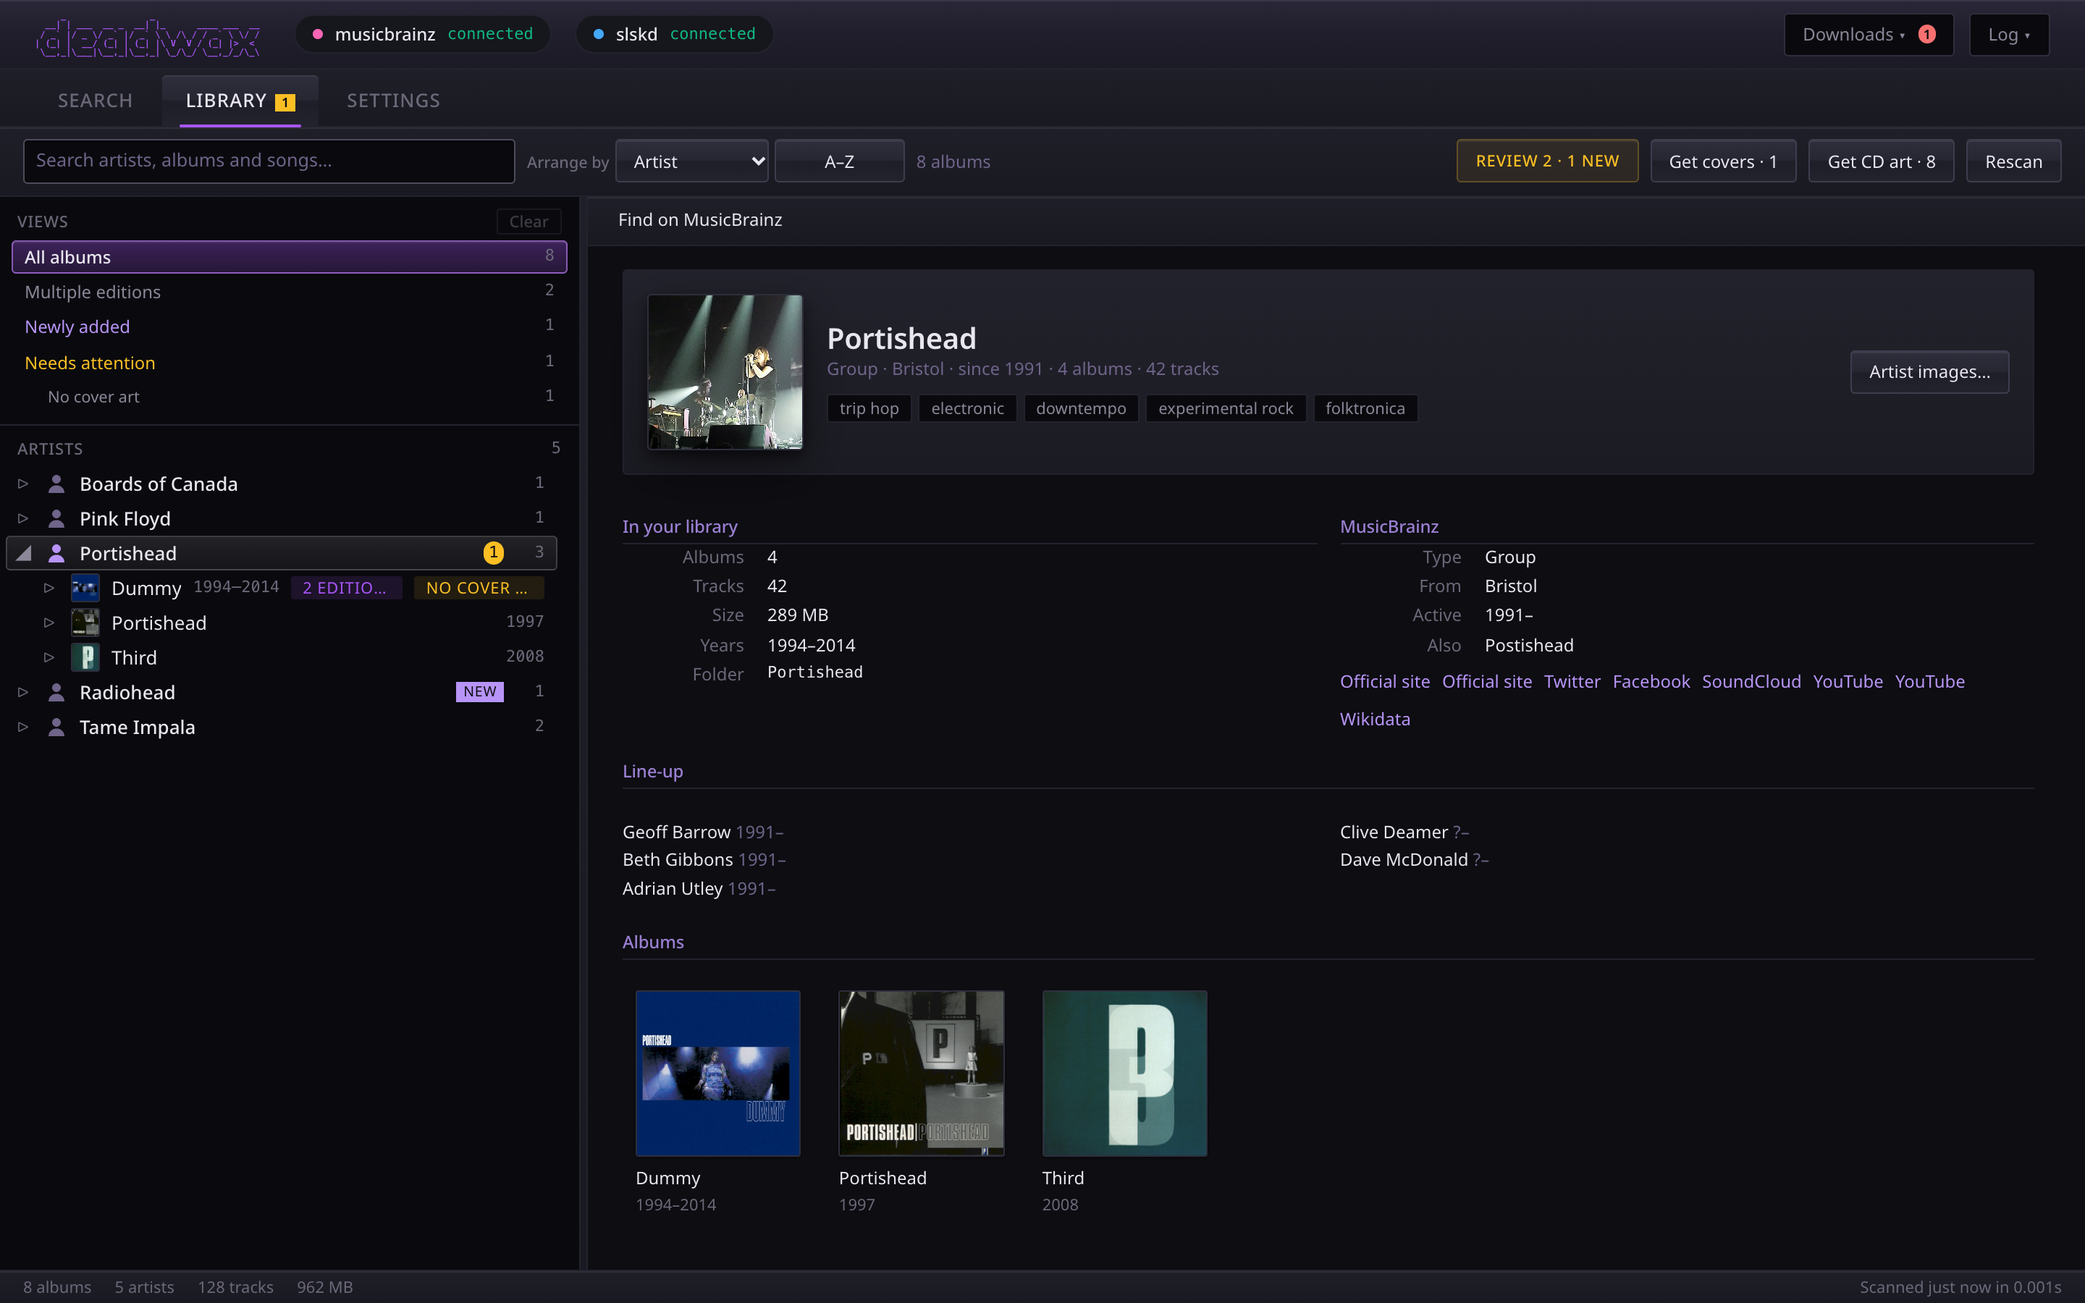
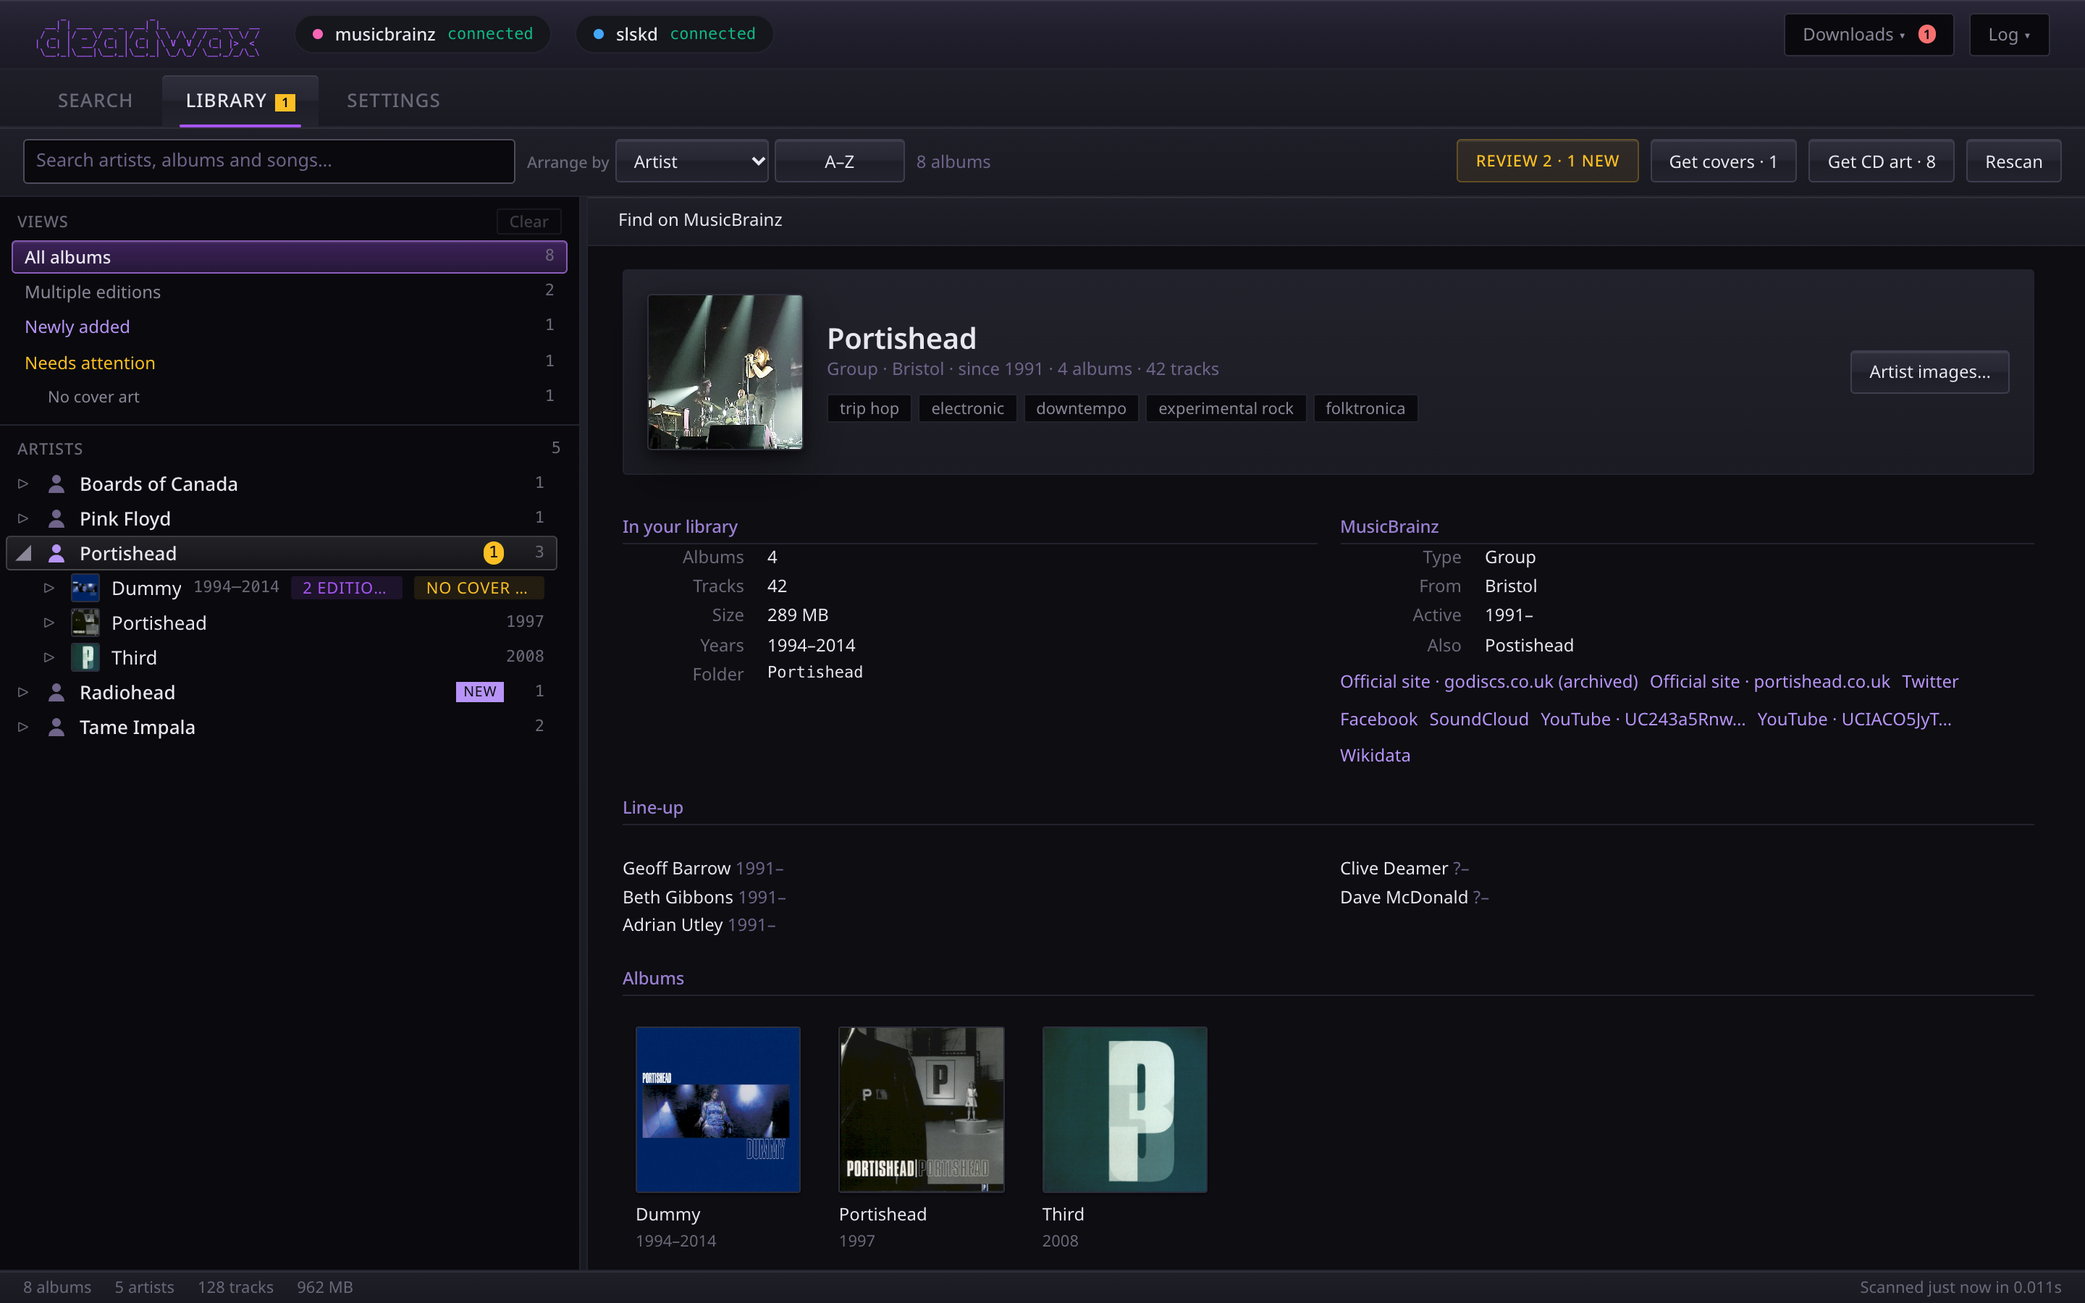
Tell apart artist links that share a label (0.9.34)
Portishead's artist page read "Official site  Official site  Twitter
Facebook  SoundCloud  YouTube  YouTube  Wikidata", with nothing to say
which was which (seen in the 0.9.33 screenshot).

artist_links() now gives links that would share a label something to tell
them apart (_tell_apart, pure, in artists.py):
- the host, where the hosts differ: "Lyrics · genius.com";
- where they share a host, the deepest path segment that differs, since
  YouTube's /channel/ is the same on both: "YouTube · UC243a5Rnw…" (ids
  cut to ten characters);
- a Wayback Machine address is read as the page it archived:
  "Official site · godiscs.co.uk (archived)" rather than web.archive.org;
- a host every link in the group shares is never added, and whatever
  still collides is numbered.
A link alone under its label is exactly as it was.

The dedupe now compares the place rather than the string, so the same page
as http and https, with and without www or a trailing slash, is one link;
nothing written beside a second copy could make it a different place. An
archived copy of a live site stays its own link. Every link's tooltip now
carries its full address.

Verified in the real page against live MusicBrainz on Portishead: both
official sites and both YouTube channels named, singles untouched, no
overflow at 1024px or 375px. The README's artist.png is recaptured to
match. Six new tests; 880 pass, pyflakes and tsc clean.

diff --git a/ui/src/components/ArtistDetails.tsx b/ui/src/components/ArtistDetails.tsx
@@ -220,7 +220,7 @@ export function ArtistDetails(
             {facts.links.length > 0 && (
               <div class="artist-links">
                 {facts.links.slice(0, 8).map((link) => (
-                  <a key={link.url} href={link.url} target="_blank" rel="noreferrer noopener">
+                  <a key={link.url} href={link.url} title={link.url} target="_blank" rel="noreferrer noopener">
                     {link.label}
                   </a>
                 ))}

diff --git a/src/artists.py b/src/artists.py
@@ -21,8 +21,9 @@ actually has the pieces an artist page is made of is the one that needs a key:
     everything here treats it as optional and the page still works without it.
 """
 
+import re
 import unicodedata
-from urllib.parse import quote, urlparse
+from urllib.parse import quote, unquote, urlparse
 
 #? The filename STEM each kind is written under. The square one is `artist`, and that is the
 #? whole reason this lands anywhere useful: **Navidrome reads it with no configuration at all**,
@@ -350,15 +351,94 @@ def _host_label(url: str) -> str:
     return SOCIAL_NAMES.get(host) or (host.split(".")[0].capitalize() if host else "Link")
 
 
+#? /web/<timestamp>/<the page it archived> - the timestamp can carry a suffix, like 2011id_
+WAYBACK_PATH = re.compile(r"^/web/[^/]+/(.+)$")
+
+#? a path segment longer than this is an id (a YouTube channel is 24 characters) and is cut short;
+#? the link's tooltip carries the whole address
+SEGMENT_CHARS = 16
+
+
+def _where(url: str) -> tuple[str, list[str], bool]:
+    """
+    Where a link goes: its host without "www.", its path's segments, and whether it's an archive.
+
+    A Wayback Machine address is read as the page it archived, since "web.archive.org" says only
+    that it's an archive, and MusicBrainz keeps a band's long-gone sites that way.
+    """
+    parsed = urlparse(url)
+    host = parsed.netloc.lower().removeprefix("www.")
+    archived = WAYBACK_PATH.match(parsed.path) if host == "web.archive.org" else None
+    if archived:
+        original = archived.group(1)
+        inner_host, segments, _ = _where(original if "://" in original else f"http://{original}")
+        return inner_host, segments, True
+    return host, [unquote(s) for s in parsed.path.split("/") if s], False
+
+
+def _telling_segment(mine: list[str], twins: list[list[str]]) -> str | None:
+    """The deepest segment of this path that its twins (same host, itself included) don't all share."""
+    for i in reversed(range(len(mine))):
+        if any(len(twin) <= i or twin[i] != mine[i] for twin in twins):
+            segment = mine[i]
+            return segment if len(segment) <= SEGMENT_CHARS else segment[:10] + "…"
+    return None
+
+
+def _tell_apart(links: list[dict]) -> None:
+    """
+    Give links that share a label something to tell them apart, in place.
+
+    Portishead has two official sites and two YouTube channels, and read "Official site Official
+    site ... YouTube YouTube". Each gets its host, or where the hosts match, the part of the path
+    that differs: "Official site · portishead.co.uk", "YouTube · UC243a5Rnw…". A link alone under
+    its label is left exactly as it was.
+    """
+    groups: dict[str, list[dict]] = {}
+    for link in links:
+        groups.setdefault(link["label"], []).append(link)
+
+    for label, group in groups.items():
+        if len(group) < 2:
+            continue
+        places = [_where(link["url"]) for link in group]
+        one_host = len({host for host, _, _ in places}) == 1
+
+        for link, (host, segments, archived) in zip(group, places):
+            twins = [other for other_host, other, _ in places if other_host == host]
+            segment = _telling_segment(segments, twins) if len(twins) > 1 else None
+            if segment is not None:
+                where = segment if one_host else f"{host}/{segment}"
+            else:
+                #? the host tells nothing when every link here has it ("YouTube · youtube.com")
+                where = None if one_host else host
+            link["label"] = label + (f" · {where}" if where else "") + (" (archived)" if archived else "")
+
+        #? addresses differing only in their query string still collide, so number what's left
+        counts: dict[str, int] = {}
+        for link in group:
+            counts[link["label"]] = counts.get(link["label"], 0) + 1
+        if any(count > 1 for count in counts.values()):
+            numbered: dict[str, int] = {}
+            for link in group:
+                if counts[link["label"]] > 1:
+                    numbered[link["label"]] = numbered.get(link["label"], 0) + 1
+                    link["label"] += f" {numbered[link['label']]}"
+
+
 def artist_links(relations: list[dict] | None) -> list[dict]:
     """
     The artist's links, grouped and de-duplicated, in LINK_GROUPS order.
 
     "Social network" covers every one of them in MusicBrainz's vocabulary, so a band with a
     Twitter, a Facebook and an Instagram got three links all labelled "Social" and no way to
-    tell which was which. Those are named after where they actually go.
+    tell which was which. Those are named after where they actually go, and links that would
+    still share a label are told apart by `_tell_apart`.
+
+    The same page reached as http and https, or with and without "www." or a trailing slash, is
+    one link: nothing written beside the second could make it a different place.
     """
-    seen: set[str] = set()
+    seen: set[tuple] = set()
     links = []
 
     for wanted, label in LINK_GROUPS.items():
@@ -366,11 +446,16 @@ def artist_links(relations: list[dict] | None) -> list[dict]:
             if relation.get("type") != wanted:
                 continue
             url = (relation.get("url") or {}).get("resource", "")
-            if url and url not in seen:
-                seen.add(url)
+            if not url:
+                continue
+            host, segments, archived = _where(url)
+            place = (host, tuple(segments), urlparse(url).query, archived)
+            if place not in seen:
+                seen.add(place)
                 links.append({"label": _host_label(url) if wanted == "social network" else label,
                               "url": url})
 
+    _tell_apart(links)
     return links
 
 

diff --git a/tests/test_artists.py b/tests/test_artists.py
@@ -307,6 +307,86 @@ def test_social_links_are_named_after_where_they_go():
     assert [l["label"] for l in facts["links"]] == ["Twitter", "Facebook", "Instagram"]
 
 
+#? Portishead's own links, as the live API gave them - the ones that read "Official site Official
+#? site ... YouTube YouTube" on the page.
+PORTISHEAD_LINKS = [
+    {"type": "official homepage",
+     "url": {"resource": "https://web.archive.org/web/19961105112827/http://www.godiscs.co.uk/porthead.html"}},
+    {"type": "official homepage", "url": {"resource": "http://www.portishead.co.uk/"}},
+    {"type": "social network", "url": {"resource": "https://twitter.com/Portisheadinfo"}},
+    {"type": "youtube", "url": {"resource": "https://www.youtube.com/channel/UC243a5RnwmItLvwhl0YOxbg"}},
+    {"type": "youtube", "url": {"resource": "https://www.youtube.com/channel/UCIACO5JyTM0l1HNykt91E6g"}},
+    {"type": "lyrics", "url": {"resource": "https://genius.com/artists/Portishead"}},
+    {"type": "lyrics", "url": {"resource": "https://muzikum.eu/en/122-6105/portishead/lyrics.html"}},
+]
+
+
+def test_links_that_share_a_label_are_told_apart():
+    """By host where the hosts differ, and by the part of the path that differs where they don't."""
+    labels = [l["label"] for l in artist_facts({"name": "Portishead", "relations": PORTISHEAD_LINKS})["links"]]
+    assert labels == [
+        #? an archived page is named after the site it archived - "web.archive.org" says nothing
+        "Official site · godiscs.co.uk (archived)",
+        "Official site · portishead.co.uk",
+        "Twitter",
+        #? /channel/ is the same on both, so it's the ids that differ, cut short
+        "YouTube · UC243a5Rnw…",
+        "YouTube · UCIACO5JyT…",
+        "Lyrics · genius.com",
+        "Lyrics · muzikum.eu",
+    ]
+
+
+def test_a_link_alone_under_its_label_is_left_as_it_was():
+    facts = artist_facts({"name": "A band", "relations": [
+        {"type": "official homepage", "url": {"resource": "https://band.com/"}},
+        {"type": "youtube", "url": {"resource": "https://www.youtube.com/@band"}},
+        {"type": "social network", "url": {"resource": "https://x.com/band"}},
+        {"type": "social network", "url": {"resource": "https://twitter.com/band"}},
+    ]})
+    #? X and Twitter are two labels already, so neither needs telling apart
+    assert [l["label"] for l in facts["links"]] == ["Official site", "X", "Twitter", "YouTube"]
+
+
+def test_two_accounts_on_one_site_are_named_by_account():
+    facts = artist_facts({"name": "A band", "relations": [
+        {"type": "social network", "url": {"resource": "https://twitter.com/band"}},
+        {"type": "social network", "url": {"resource": "https://twitter.com/band_archive"}},
+        {"type": "bandcamp", "url": {"resource": "https://band.bandcamp.com/"}},
+        {"type": "bandcamp", "url": {"resource": "https://sideproject.bandcamp.com/"}},
+    ]})
+    assert [l["label"] for l in facts["links"]] == [
+        "Twitter · band", "Twitter · band_archive",
+        "Bandcamp · band.bandcamp.com", "Bandcamp · sideproject.bandcamp.com",
+    ]
+
+
+def test_the_same_page_written_two_ways_is_one_link():
+    """Nothing written beside a second copy could make it a different place, so it isn't shown."""
+    facts = artist_facts({"name": "A band", "relations": [
+        {"type": "official homepage", "url": {"resource": "http://www.band.com/"}},
+        {"type": "official homepage", "url": {"resource": "https://band.com"}},
+    ]})
+    assert facts["links"] == [{"label": "Official site", "url": "http://www.band.com/"}]
+
+
+def test_an_archived_copy_of_a_live_site_is_still_its_own_link():
+    facts = artist_facts({"name": "A band", "relations": [
+        {"type": "official homepage", "url": {"resource": "https://band.com/"}},
+        {"type": "official homepage", "url": {"resource": "https://web.archive.org/web/2001id_/http://band.com/"}},
+    ]})
+    #? one site, so naming it would say nothing - "(archived)" is the whole difference
+    assert [l["label"] for l in facts["links"]] == ["Official site", "Official site (archived)"]
+
+
+def test_links_nothing_else_tells_apart_are_numbered():
+    facts = artist_facts({"name": "A band", "relations": [
+        {"type": "youtube", "url": {"resource": "https://www.youtube.com/watch?v=one"}},
+        {"type": "youtube", "url": {"resource": "https://www.youtube.com/watch?v=two"}},
+    ]})
+    assert [l["label"] for l in facts["links"]] == ["YouTube 1", "YouTube 2"]
+
+
 
 # ------------------------------------------------------- finding an artist who has been renamed
 #

diff --git a/src/__init__.py b/src/__init__.py
@@ -14,4 +14,4 @@ value here is a wrong answer to "what version are you running", which is the fir
 asked about any bug report.
 """
 
-__version__ = "0.9.33"
+__version__ = "0.9.34"

diff --git a/CLAUDE.md b/CLAUDE.md
@@ -130,7 +130,7 @@ interface/         vanilla JS/CSS. Still the served page; main.js is shrinking a
                    separately - hard-refresh when verifying a palette change.
   dist/            BUILT from ui/, gitignored. Not present in a fresh checkout.
 ui/                Preact + Vite + TypeScript. New work goes here — see below.
-tests/             874 tests, all Python, all fixture-driven (+ ui/test/*.sim.cjs scripts)
+tests/             880 tests, all Python, all fixture-driven (+ ui/test/*.sim.cjs scripts)
 ```
 
 API routes are prefixed **`/deadwax/`** (renamed from `/lidbrainz/`, then from `/jimbrainz/`
@@ -1472,6 +1472,16 @@ anything else I'd need for an artist page".
   dead one** - the only candidates are Commons photographs, all of them of kind `thumb`, so
   every other row reads "none found" and the square is the only thing selectable. Which is
   exactly how it was reported.
+- **Links that would share a label say where each goes (v0.9.34).** Portishead read "Official
+  site Official site ... YouTube YouTube". `_tell_apart` in artists.py (pure) adds the host where
+  the hosts differ, and the deepest path segment that differs where they don't (YouTube's
+  `/channel/<id>` - the ids, cut to 10 characters; the tooltip has the whole address). A host the
+  whole group shares is never added ("YouTube · youtube.com" says nothing), so what nothing else
+  separates is numbered. A Wayback Machine address is read as the page it archived:
+  "godiscs.co.uk (archived)", not "web.archive.org". A link alone under its label is untouched.
+  The dedupe is on the PLACE now (host without www, path, query, archived), not the exact string:
+  http and https, or a trailing slash, of one page is one link. Verified on the live Portishead
+  record, at 1024 and 375px.
 - ~~Known gap: on a phone the artist page is unreachable~~ **Closed in v0.9.31**: tapping an
   artist opens it in place, as before, and tapping it again, open, opens the sheet with its page
   (`activate` in LibraryView: `row.kind !== 'artist' || row.open`). The phone rules written for
@@ -2896,7 +2906,7 @@ compile time.
 
 ```bash
 .venv/bin/python -m src.main          # needs .env; the dev one sets DB_PATH=.devdata/jimbrainz.db
-.venv/bin/python -m pytest tests/ -q  # 874 tests
+.venv/bin/python -m pytest tests/ -q  # 880 tests
 ```
 
 Frontend, from `ui/`. **Needs Node `^20.19.0 || >=22.12.0`** — see the npm gotcha above:
@@ -2940,7 +2950,7 @@ deliberately not in it.
 
 ## What the tests cannot tell you
 
-All 874 tests are fixture-driven, and **nothing in the suite has ever talked to a real
+All 880 tests are fixture-driven, and **nothing in the suite has ever talked to a real
 slskd** - the application now has, once, and the first search it tried was refused. The parts
 most likely to break on deployment are exactly the parts tests can't reach:
 

diff --git a/README.md b/README.md
@@ -223,7 +223,7 @@ Cover art comes from a file beside the tracks, then from art embedded in the aud
 
 ### Artist pages, with pictures
 
-Click an artist in the library and you get a page about them rather than a heading: who they are, where they're from, how long they've been going, what MusicBrainz tags them as, the current line-up with instruments (and how many members came before), their official site and socials named after where they actually go, and their albums oldest first.
+Click an artist in the library and you get a page about them rather than a heading: who they are, where they're from, how long they've been going, what MusicBrainz tags them as, the current line-up with instruments (and how many members came before), their official site and socials named after where they actually go (two of a kind say which is which: <em>Official site · portishead.co.uk</em>, and <em>(archived)</em> for one the Wayback Machine kept), and their albums oldest first.
 
 Above all that: their own pictures. **MusicBrainz has none** — the Cover Art Archive is for releases, and what musicbrainz.org shows on an artist page is a Wikimedia Commons photo reached through Wikidata. deadwax uses that too, and adds <strong>fanart.tv</strong> and <strong>TheAudioDB</strong> if you give either a key in the settings tab — between them they have the banners, logos, backgrounds and wide shots an artist page is actually made of. fanart.tv's artwork is voted on by the people using it, so deadwax offers the most-liked of each kind first; its key is issued per application rather than per person, so you register your own at fanart.tv.
 

diff --git a/docs/library.md b/docs/library.md
@@ -177,6 +177,9 @@ metadata editor it shows your cover and the release's side by side.
 
 Select an artist (on a phone, tap it twice) for their page: a photograph, the facts MusicBrainz
 has (type, origin, active years, other names, members), links, and their albums in your library.
+Two links of the same kind say where each one goes (**Official site · portishead.co.uk**, and
+**(archived)** for a page kept on the Wayback Machine), and every link's full address is in its
+tooltip.
 
 Which artist this is comes from the files' MusicBrainz artist ids. When the files have none, a
 name search is used, but only when exactly one artist has that name. For a name several artists
